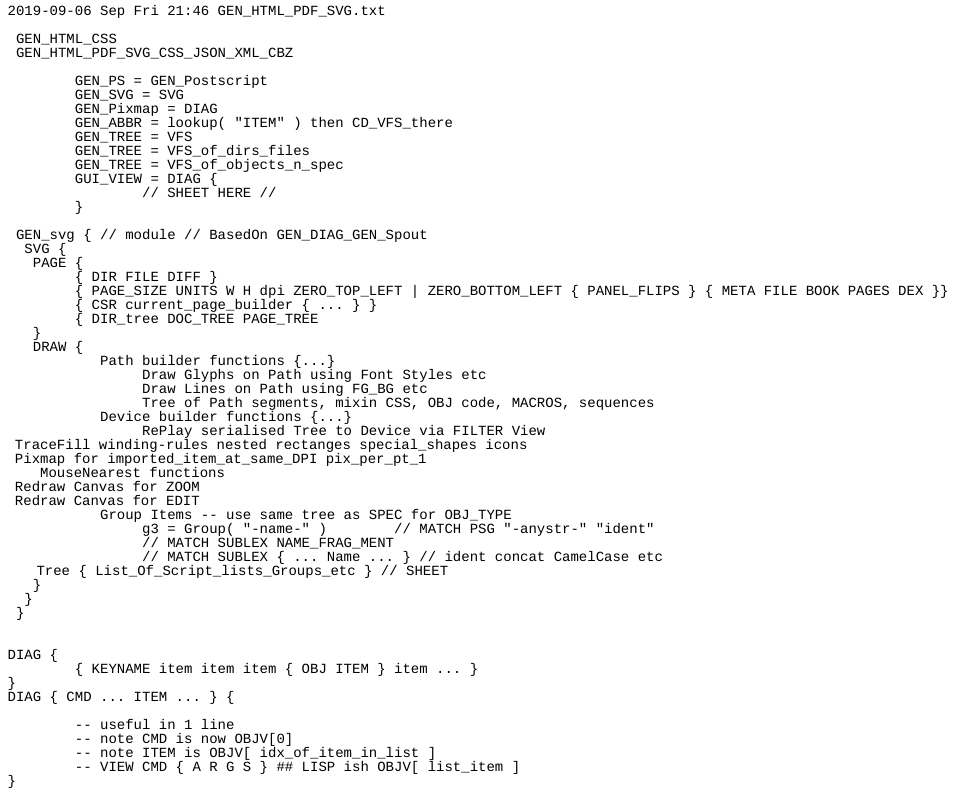
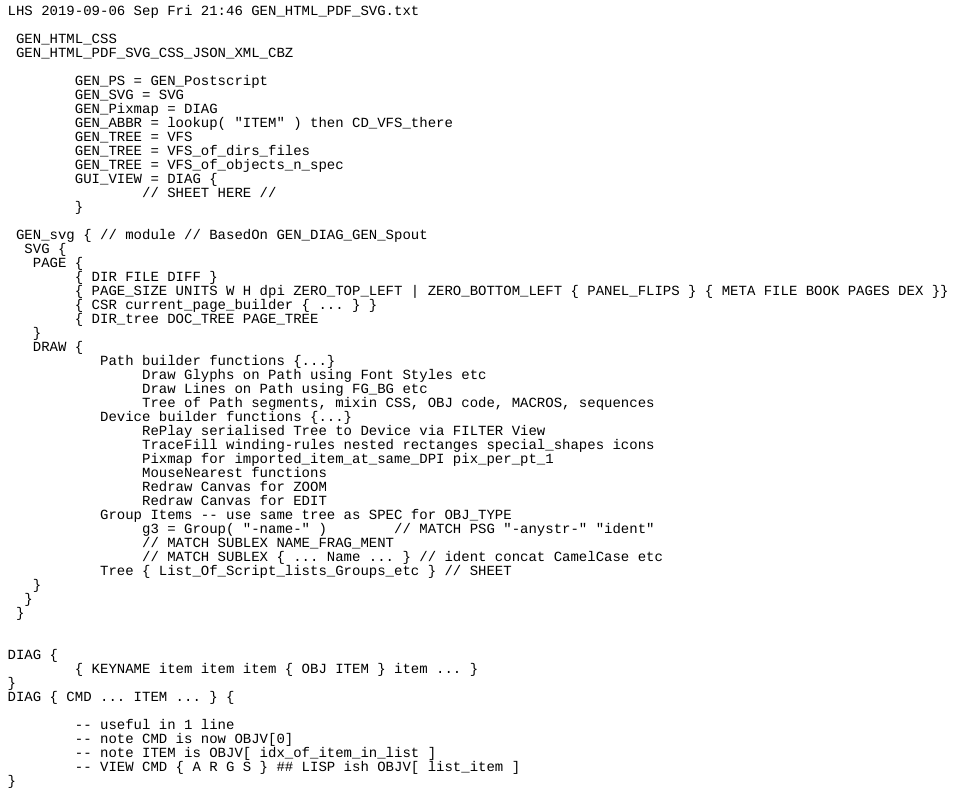
acs

Changed region(s): [[0.0, 0.5455, 0.6977, 0.6364], [0.0303, 0.697, 0.546, 0.7273], [0.0, 0.0, 0.4247, 0.0303]]

diff --git a/GFX_mutool/txt_2_png/txt_2_png.js b/GFX_mutool/txt_2_png/txt_2_png.js
@@ -22,6 +22,31 @@
 		print( "# INFO #", key, val )
 	}
 
+	function expand_tabs( str ) {
+	 var dst = ""
+	 dst = "LHS "
+	 var len = str.length
+	 var xpos = 0
+	 for( var pos = 0; pos < len; pos++ ) { // es5 not es6 ?
+	   var ch = str[pos]
+	   if( ch == "\n" ) {
+		 xpos =-1 
+	   }
+	   if( ch == "\t" ) {
+	        // dbg_print_2( "TAB", str )
+		do {
+		 dst = dst + " " // tabby space
+		 xpos ++
+		 // dbg_print_2( "dst", dst ) 
+		} while( xpos % 8 > 0 ) 
+	   } else {
+		 dst = dst + ch
+	   	 xpos++
+	   }
+	  }
+	 return dst
+	}
+
 	var dir_name_txt = scriptArgs[0];
 
 	// strip .txt // or fail
@@ -50,6 +75,7 @@
 	// dbg_print_2("name_png", name_png);
 
 	var text_in = read( dir_name_txt ) // mutool run specific
+	text_in = expand_tabs( text_in )
 	var text_lines = text_in.split("\n")
 	var n_lines = text_lines.length
 	n_lines -- // no line after final \n // hopefully

diff --git a/GFX_lib_xterm/tty_ncurses/src/tty_curses_UDLR.h b/GFX_lib_xterm/tty_ncurses/src/tty_curses_UDLR.h
@@ -1,0 +1,76 @@
+#ifndef tty_curses_UDLR_H
+#define tty_curses_UDLR_H
+namespace TTY_CURSES {
+
+	  static int char_of_udlr[16];
+	// these are my box_chars // ? char_attr_t
+	  void init_char_of_udlr();
+
+	 enum enum_UDLR
+	 {
+	 	UDLR_____  =   0,
+	 	UDLR_U___  = 0x8,
+	 	UDLR__D__  = 0x4,
+	 	UDLR___L_  = 0x2,
+	 	UDLR____R  = 0x1,
+	 	UDLR_UDLR  = 0xF,
+
+	 	UDLR_UD__  = UDLR_U___  + UDLR__D__,
+	 	UDLR___LR  = UDLR___L_  + UDLR____R,
+
+	 	UDLR_U_L_  = UDLR_U___  + UDLR___L_,
+	 	UDLR_U__R  = UDLR_U___  + UDLR____R,
+	 	UDLR__DL_  = UDLR__D__  + UDLR___L_,
+	 	UDLR__D_R  = UDLR__D__  + UDLR____R,
+
+	 	UDLR__DLR  = UDLR_UDLR  - UDLR_U___,
+	 	UDLR_U_LR  = UDLR_UDLR  - UDLR__D__,
+	 	UDLR_UD_R  = UDLR_UDLR  - UDLR___L_,
+	 	UDLR_UDL_  = UDLR_UDLR  - UDLR____R
+	 };
+
+	/*!
+		UDLR val; // holds Up Down Left Right Flags
+	*/
+	struct UDLR {
+
+	  enum_UDLR val;
+	  UDLR( enum_UDLR _val = UDLR_____ ) : val( _val) {};
+	  // default zer0 UDLR() 
+
+
+	  int get_acs_char() {
+	    // init on first use // use item0 instead of extra bool var;
+	    if(0 == char_of_udlr[ 0 ] )
+	      init_char_of_udlr();
+
+	    return char_of_udlr[ (int) val ];
+	   }
+
+	 void OR_VAL(enum_UDLR rhs) {
+		 val = enum_UDLR(((int) val ) | (int) rhs );
+	 }
+	 void set_U() { OR_VAL( UDLR_U___); }
+	 void set_D() { OR_VAL( UDLR__D__); }
+	 void set_L() { OR_VAL( UDLR___L_); }
+	 void set_R() { OR_VAL( UDLR____R); }
+
+	// CC can figure this, local int scope
+	  void set_UDLR (
+	   bool U,
+	   bool D,
+	   bool L,
+	   bool R
+	  ) {
+		int     iUDLR   = (int) UDLR_____;
+		if( U ) iUDLR  += (int) UDLR_U___;
+		if( D ) iUDLR  += (int) UDLR__D__;
+		if( L ) iUDLR  += (int) UDLR___L_;
+		if( R ) iUDLR  += (int) UDLR____R;
+		enum_UDLR UDLR = ( enum_UDLR ) iUDLR;
+	 }
+
+  }; // class
+
+}; // namespace
+#endif

diff --git a/GFX_lib_xterm/tty_ncurses/src/tty_curses_CSR.h b/GFX_lib_xterm/tty_ncurses/src/tty_curses_CSR.h
@@ -4,6 +4,7 @@
 #include <ncurses.h> // to make inline functions work
 #include <stdarg.h> // 
 #include "tty_curses.h"
+#include "tty_curses_UDLR.h"
 
 #ifndef NULL
 #define NULL 0L
@@ -14,8 +15,8 @@
 
  // NO struct WINDOW; // ncurses stubs
  typedef struct _win_st WINDOW;
-
  typedef short i16;
+ typedef unsigned char u8;
 
 
 namespace TTY_CURSES {
@@ -43,6 +44,10 @@ namespace TTY_CURSES {
 	void printf( const char * fmt, ... );
 	void print( const char * fmt, ... );
 	void puts( const char * str );
+	void putc_byte( const u8 ch );
+	void putc_acs( const u8 ch );
+//	void put_c( const u8 ch );
+	void add_ch( const chtype ch );
 
 	// attr_on is a CURSES MACRO
 	void fgbg_on( int attr ) { attron( attr ); }
@@ -57,12 +62,8 @@ namespace TTY_CURSES {
 	void box_mode_end();
 	void box_v_line( i16 x, i16 y1, i16 y2 );
 	void box_h_line( i16 y, i16 x1, i16 x2 );
-	void putc_box(
-	 bool U,
-	 bool D,
-	 bool L,
-	 bool R
-	 );
+	void putc_box( enum_UDLR udlr );
+	void putc_box( UDLR UDLR);
 
 
  };
